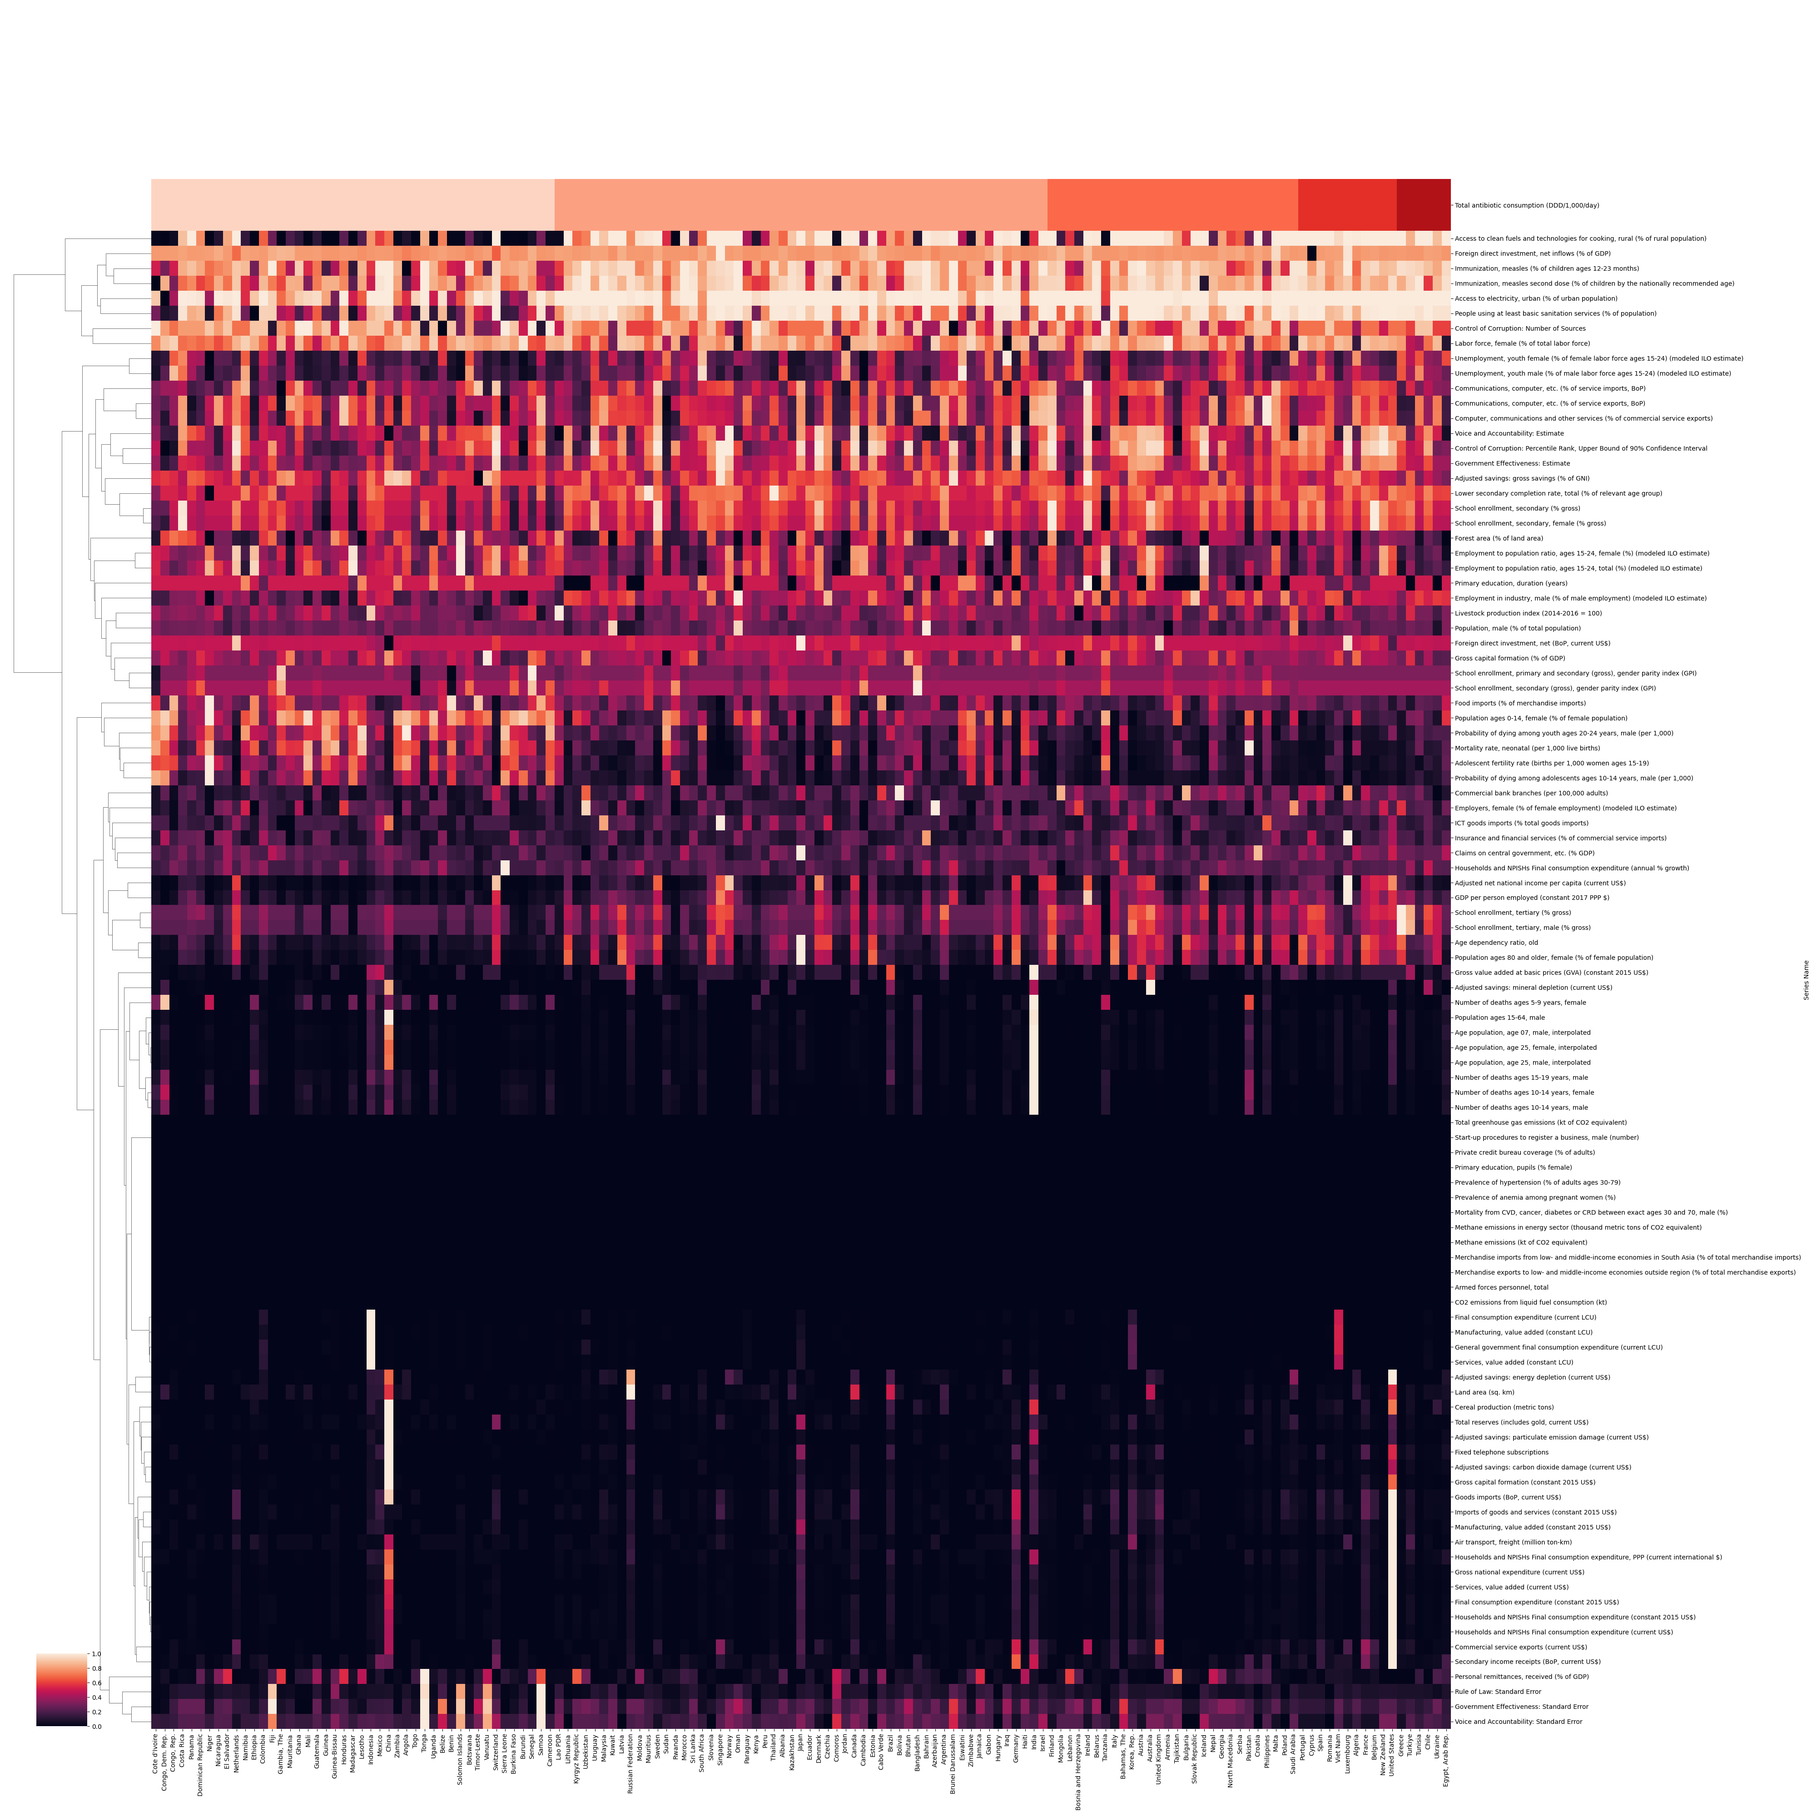
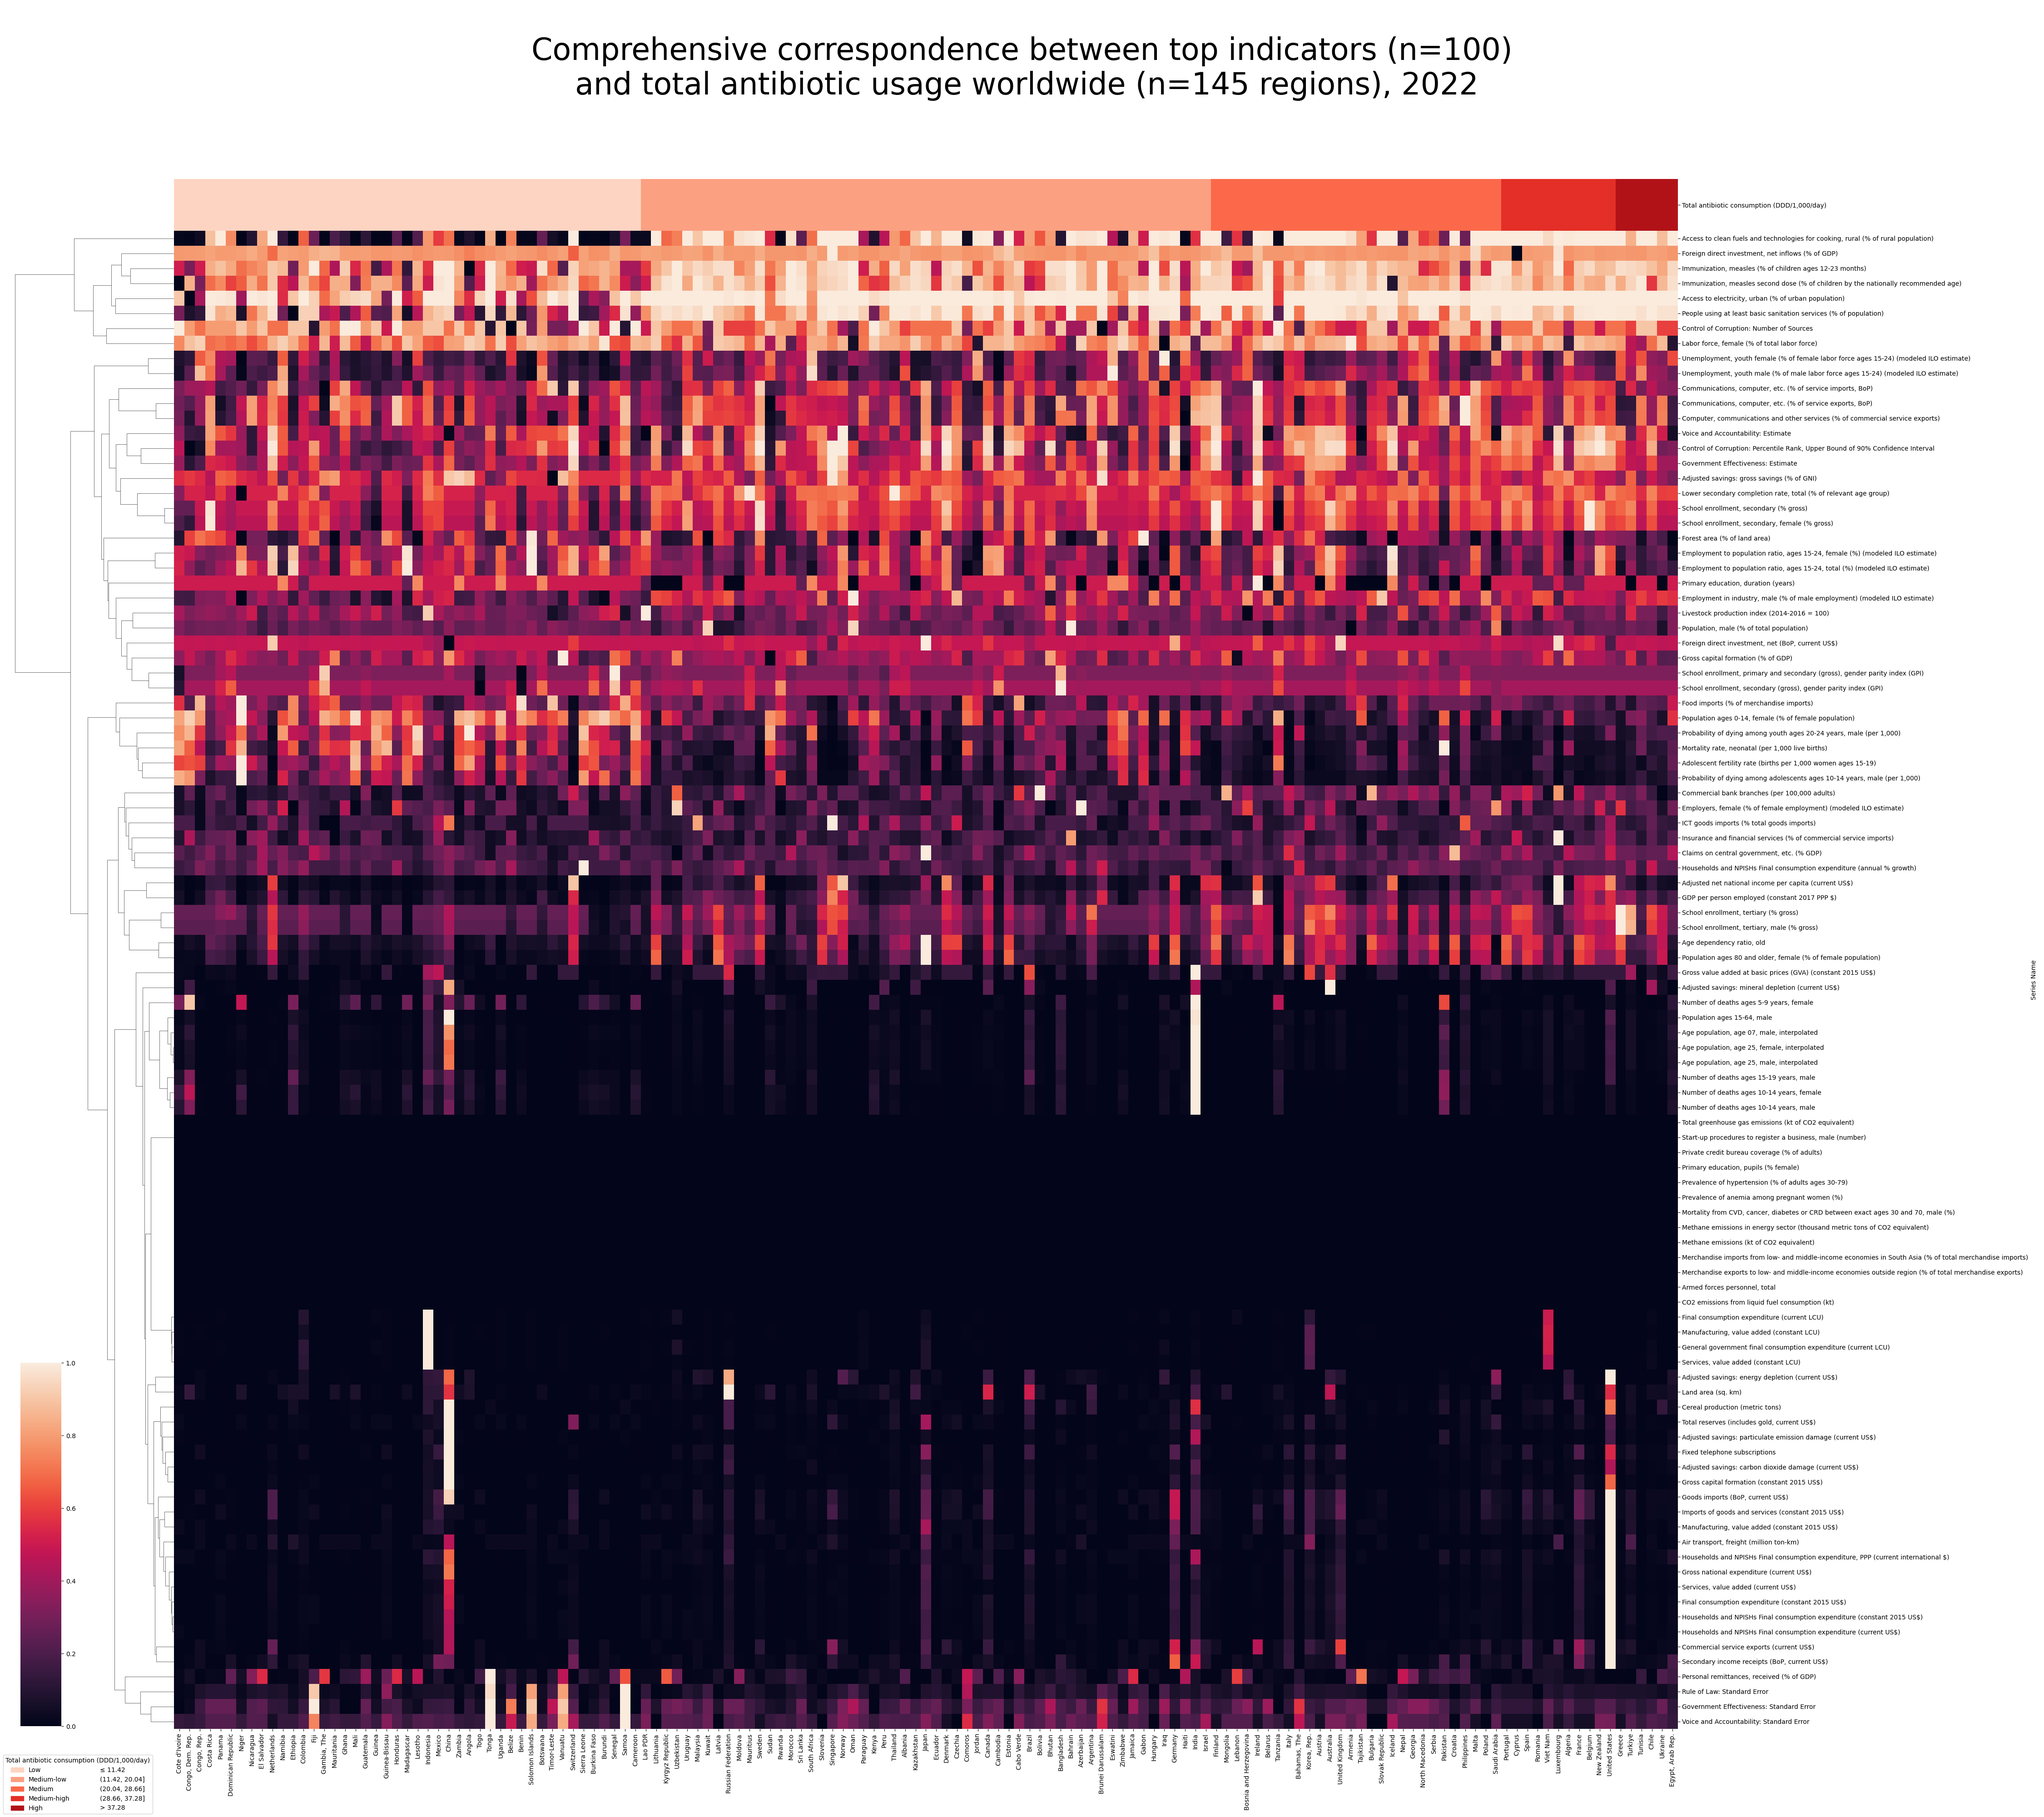
heatmap top 100

diff --git a/visualizations/heatmap_top100.py b/visualizations/heatmap_top100.py
@@ -4,6 +4,7 @@ import pandas as pd
 
 import seaborn as sns
 import matplotlib.pyplot as plt
+import matplotlib.patches as mpatches
 
 cases = pd.read_csv("prediction/x_2003-2022_infer_cases.csv")
 cases = cases[["Country Name", "Year"]]
@@ -50,12 +51,40 @@ matrix = matrix.sub(amin, axis=0).div(amax - amin, axis=0)
 matrix = matrix.fillna(0)
 
 # show heatmap
-sns.clustermap(
+g = sns.clustermap(
     matrix,
     col_colors=country_colors,
     col_cluster=False,
     dendrogram_ratio=(0.1, 0.1),
-    cbar_pos=(0.02, 0.05, 0.028, 0.04),
-    figsize=((40, 40)),
+    cbar_pos=(0.01, 0.05, 0.02, 0.2),
+    figsize=((45, 40)),
 )
+
+intervals = [
+    "≤ 11.42",
+    "(11.42, 20.04]",
+    "(20.04, 28.66]",
+    "(28.66, 37.28]",
+    "> 37.28",
+]
+
+levels = ["Low", "Medium-low", "Medium", "Medium-high", "High"]
+
+fig = g.figure
+fig.legend(
+    handles=[
+        *[mpatches.Patch(color=color, label=levels[i]) for i, color in enumerate(pal)],
+        *[mpatches.Patch(color="white", label=interval) for interval in intervals],
+    ],
+    ncols=2,
+    title="Total antibiotic consumption (DDD/1,000/day)",
+    loc="lower left",
+)
+
+fig.suptitle(
+    "Comprehensive correspondence between top indicators (n=100)\n and total antibiotic usage worldwide (n=145 regions), 2022",
+    fontsize=48,
+)
+
+plt.tight_layout()
 plt.savefig("visualizations/heatmap_top100.png")

diff --git a/drafts/legend.py b/drafts/legend.py
@@ -5,7 +5,24 @@ import matplotlib.patches as mpatches
 
 pal = sns.color_palette("Reds", 5)
 
+intervals = [
+    "≤ 11.42",
+    "(11.42, 20.04]",
+    "(20.04, 28.66]",
+    "(28.66, 37.28]",
+    "> 37.28",
+]
+
+levels = ["Low", "Medium-low", "Medium", "Medium-high", "High"]
+
 fig, ax = plt.subplots()
-ax.legend(handles=[mpatches.Patch(color=color, label="The red data") for color in pal])
+ax.legend(
+    handles=[
+        *[mpatches.Patch(color=color, label=levels[i]) for i, color in enumerate(pal)],
+        *[mpatches.Patch(color="white", label=interval) for interval in intervals],
+    ],
+    ncols=2,
+    title="Total antibiotic consumption (DDD/1,000/day)",
+)
 
 plt.show()
